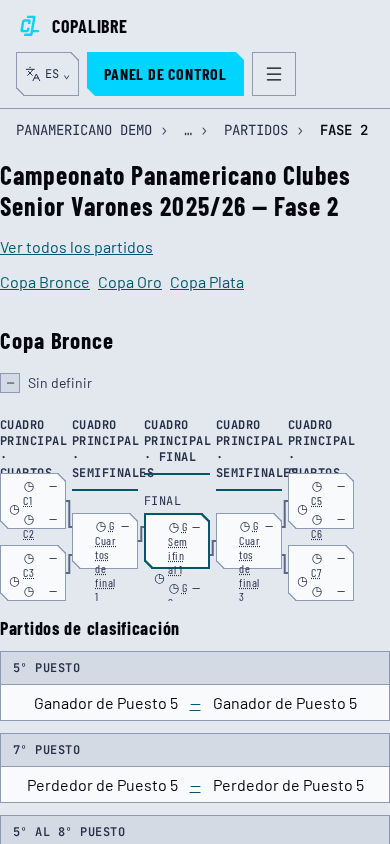
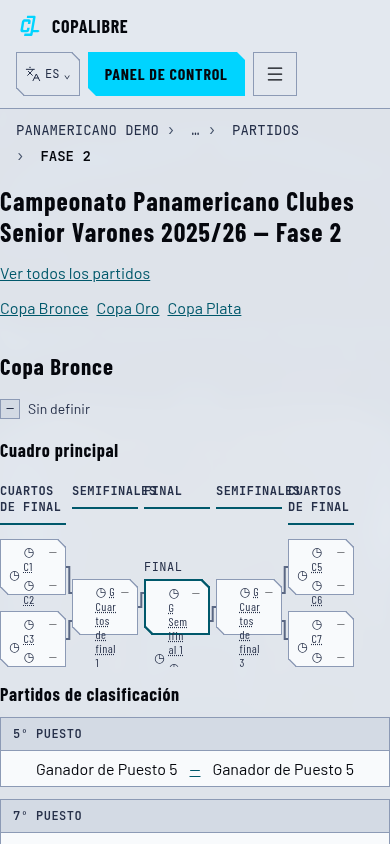
fix(web): show bracket branch title once

diff --git a/apps/web/src/lib/bracket-round-heading.test.ts b/apps/web/src/lib/bracket-round-heading.test.ts
@@ -1,0 +1,38 @@
+import { describe, expect, it } from '@jest/globals';
+import { bracketRoundHeading, bracketRoundTitle } from './bracket-round-heading.js';
+import type { BracketRound } from './bracket.js';
+import { publicIntl } from './i18n/public-intl.js';
+
+const round = (branch: string, roundNumber: number): BracketRound => ({
+  branch,
+  roundNumber,
+  matches: [],
+});
+
+describe('bracket round labels', () => {
+  it('keeps branch context for regions and shortens the visible round title', () => {
+    const semifinal = round('winners', 1);
+    const final = round('winners', 2);
+    const placementFinal = round('placement', 3);
+    const rounds = [semifinal, final, placementFinal];
+
+    expect(bracketRoundTitle(publicIntl('es'), semifinal, rounds)).toBe('Semifinales');
+    expect(bracketRoundTitle(publicIntl('es'), final, rounds)).toBe('Final');
+    expect(bracketRoundHeading(publicIntl('es'), semifinal, rounds)).toBe(
+      'Cuadro principal · Semifinales',
+    );
+    expect(bracketRoundHeading(publicIntl('es'), final, rounds)).toBe('Cuadro principal · Final');
+    expect(bracketRoundHeading(publicIntl('es'), placementFinal, rounds)).toBe(
+      'Partidos de clasificación · Final',
+    );
+  });
+
+  it('keeps the branch label when the bracket contains different branches', () => {
+    const winnersSemifinal = round('winners', 1);
+    const rounds = [winnersSemifinal, round('winners', 2), round('losers', 1), round('losers', 2)];
+
+    expect(bracketRoundHeading(publicIntl('es'), winnersSemifinal, rounds)).toBe(
+      'Cuadro principal · Semifinales',
+    );
+  });
+});

diff --git a/apps/web/src/lib/bracket-round-heading.ts b/apps/web/src/lib/bracket-round-heading.ts
@@ -3,8 +3,18 @@ import { bracketBranchLabel } from './i18n/public-intl.js';
 import { messages } from './i18n/public-messages.en.js';
 import type { BracketRound } from './bracket.js';
 
-/** Names a round by its place in its own branch, keeping every cup scoped. */
+/** Names a round with its branch context for its accessible region. */
 export function bracketRoundHeading(
+  intl: IntlShape,
+  round: BracketRound,
+  rounds: readonly BracketRound[],
+): string {
+  const heading = bracketRoundTitle(intl, round, rounds);
+  return `${bracketBranchLabel(intl, round.branch)} · ${heading}`;
+}
+
+/** Names a round without repeating its branch subtitle beside every round. */
+export function bracketRoundTitle(
   intl: IntlShape,
   round: BracketRound,
   rounds: readonly BracketRound[],
@@ -23,5 +33,5 @@ export function bracketRoundHeading(
           ? intl.formatMessage(messages.bracketRoundQuarterfinals)
           : intl.formatMessage(messages.bracketRoundHeading, { round: round.roundNumber });
 
-  return `${bracketBranchLabel(intl, round.branch)} · ${heading}`;
+  return heading;
 }

diff --git a/e2e/public-bracket-connectors.spec.ts b/e2e/public-bracket-connectors.spec.ts
@@ -185,7 +185,13 @@ test.describe('public knockout bracket', () => {
 
     const canvas = page.locator('.cl-bracket-stage__canvas[data-density="full"]');
     await expect(canvas.locator('.cl-bracket-stage__node')).toHaveCount(7);
-    await expect(canvas.getByText('Final', { exact: true })).toBeVisible();
+    await expect(
+      canvas.getByRole('heading', { name: 'Cuadro principal', exact: true }),
+    ).toHaveCount(1);
+    await expect(
+      canvas.locator('.cl-bracket-stage__round-label').filter({ hasText: 'Cuadro principal' }),
+    ).toHaveCount(0);
+    await expect(canvas.getByRole('heading', { name: 'Final', exact: true })).toBeVisible();
 
     // The five placement games are not in the tree; they are listed under what each decides.
     const list = page.locator('.cl-placement-games');
